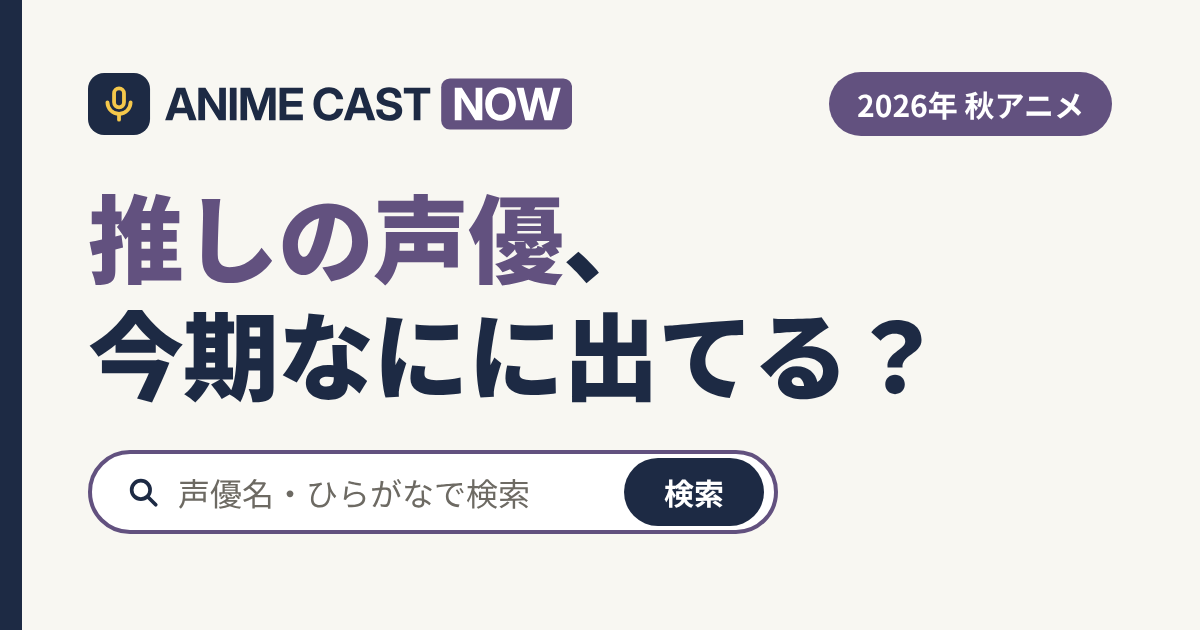
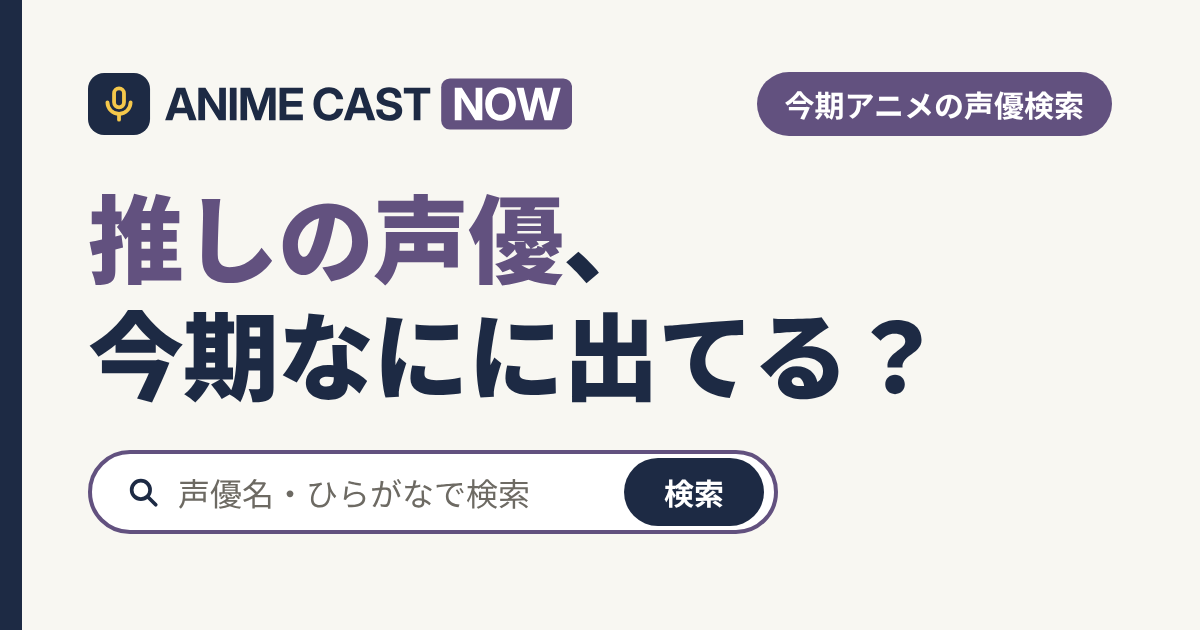
Claude なしで運用するための手動手順を README に追加し、シーズン表記を自動化
- README 冒頭に「Claude なしで運用する（手動手順）」：準備、安全チェックで止まったとき、定期実行の再開、手元での取り直し、配信先の修正、料金表記、X 予約、作品紹介、年1回の作業
- トップの <title> や説明文の「〇年〇アニメ」を build:pages が data.json のシーズンに合わせて書き換える
- OGP 画像からシーズン表記をなくし「今期アニメの声優検索」に（季節ごとの作り直し不要）

Claude-Session: https://claude.ai/code/session_011qV7UyLT8VpfRtqfZ2Rmec

Changed region(s): [[0.6167, 0.0905, 0.925, 0.2413]]

diff --git a/README.md b/README.md
@@ -1,5 +1,108 @@
 # voice-search-app
 
+## Claude なしで運用する（手動手順）
+
+ふだんの更新はすべて自動です。Claude がいなくてもサイトは止まりません。
+
+- **毎週月曜 5:17（GitHub Actions「データ更新」）**：次の作業を順に行います。
+  - 今期・来期の作品と声優を Annict と AniList から取り直す
+  - 公式サイトから配信先を補う
+  - 過去作を取る
+  - ページを作り直す
+  - 安全チェックを通れば main に push する
+- **main が更新されると、Cloudflare（Workers Builds: animecastnow）が自動で本番に公開します。**
+- **シーズンの切り替えも自動です。** シーズンは実行した日付から決まります。トップのタイトルや説明文の「〇年〇アニメ」も `npm run build:pages` が書き換えます。
+
+以下は、ときどき人の手が要る場面の手順です。
+
+### 0. 手元で動かすための準備（最初に1回）
+
+```bash
+git clone https://github.com/keita6321/voice-search-app.git
+cd voice-search-app
+pip install -r requirements.txt pykakasi   # Python 3.12 推奨
+# Node.js 20 以上も入れておく（ページ生成と X 下書きに使う）
+export ANNICT_TOKEN='（Annict の個人用アクセストークン）'   # データを取り直すときだけ必要。コードやGitには書かない
+```
+
+手元で変更したら、最後は次の3つで本番に反映します（Cloudflare が自動で公開します）。
+
+```bash
+npm run build:pages
+python3 -m unittest discover -s tests -t .
+git add -A && git commit -m "…" && git push origin main
+```
+
+### 1. 自動更新が「安全チェック」で止まった（シーズンの切り替え時に起きやすい）
+
+声優数や作品数が前回より大きく減ると、取得失敗を疑って本番に反映しません。
+
+1. 結果は GitHub の **Actions タブ →「データ更新」** の最新の実行で確認します。確認用ブランチ `data/refresh-日時` の `reports-build.log` も見ます。
+2. シーズンの切り替えなど、減るのが正しい場合は、同じ画面で **Run workflow** を押し、**auto_apply** と **force_registry** にチェックを入れて実行します。
+3. Annict の障害など、取得の失敗が原因なら何もしません。翌週の定期実行に任せます。
+
+### 2. 自動更新が動いていない（Actions に新しい実行が出ない）
+
+公開リポジトリでは、60日間活動がないと定期実行が自動で止まります。Actions タブ →「データ更新」に出る **Enable workflow** を押すと再開します。すぐ更新したいときは **Run workflow** を押し、auto_apply にチェックを入れて実行します。
+
+### 3. 手元でデータを取り直したい
+
+```bash
+python3 build_data_from_sources.py --refresh --season 2027-winter               # 今期（data.json）
+python3 build_data_from_sources.py --refresh --preview --season 2027-spring     # 来期（data-next.json）
+python3 discover_vod_candidates.py --auto                                       # 公式サイトから配信先を補う
+python3 past_works.py --max-minutes 60                                          # 過去作（全員分なら40分ほど）
+```
+
+その後は「0.」の3つのコマンドで反映します。
+
+### 4. 配信先が間違っている・足りない
+
+`vod_overrides.csv` に1行足します（`title,provider,source_url,checked_at`）。
+
+- `title` は data.json の作品名と完全に一致させます。
+- `source_url` には公式の配信ページを書きます。
+
+追加したら `python3 build_data_from_sources.py` を実行し、「0.」の手順で反映します。間違った行は、その行を消してから同じ手順で反映します。
+
+### 5. 提携先や無料期間・料金が変わった
+
+- **提携が増えた**：「提携済みVODの管理」の手順で、`vod_providers.py` と `index.html` の `PARTNER_SERVICES` を更新します。
+- **無料期間や料金の表記を変える**：次の3か所を書き換えます。
+  - `index.html` の `PARTNER_OFFERS`
+  - `scripts/articles.mjs` の `PARTNER_OFFERS`
+  - `scripts/articles.mjs` の `VOD_PLANS`（/vod/ の比較表）
+
+  書き換えたら「0.」の手順で反映します。
+
+### 6. X の予約投稿を作る
+
+```bash
+npm run build:pages
+npm run posts -- --start 2027-01-12 --days 7 --campaign 2027winter --season-tag 冬アニメ --verify-pages
+```
+
+`posts-out/posts-helper.html` をブラウザーで開き、本文を X の予約画面に貼り付けます。
+
+- 季節が変わったら `--campaign` と `--season-tag` を変えます。
+- 紹介済みの記録 `scripts/.post-history.json` はコミットします。
+
+詳しいオプションは「X投稿の下書き生成」を見てください。
+
+### 7. 作品紹介（手書き）を足す
+
+`data/work_notes.json` に作品名をキーにして書き、「0.」の手順で反映します。
+
+- 書ける項目は「作品紹介（手書き）」を見てください。
+- `catch` を書くと、トップの「注目作品」に出せます。
+
+### 8. 年に1回など、たまに必要なこと
+
+- **ドメイン（animecastnow.com）の更新**：Cloudflare の管理画面で行います（支払い）。
+- **アフィリエイト（afb / A8 / もしも）の登録情報やリンクの変更**：各ASPの管理画面で行います。
+- **GA4 と Search Console の確認**：それぞれの管理画面で見ます。
+
+
 ## Data cleanup
 
 `build_data_from_sources.py` excludes cast names that are not written in Japanese or Latin characters. It also uses `title_aliases.csv` to merge alternate titles into one work.
